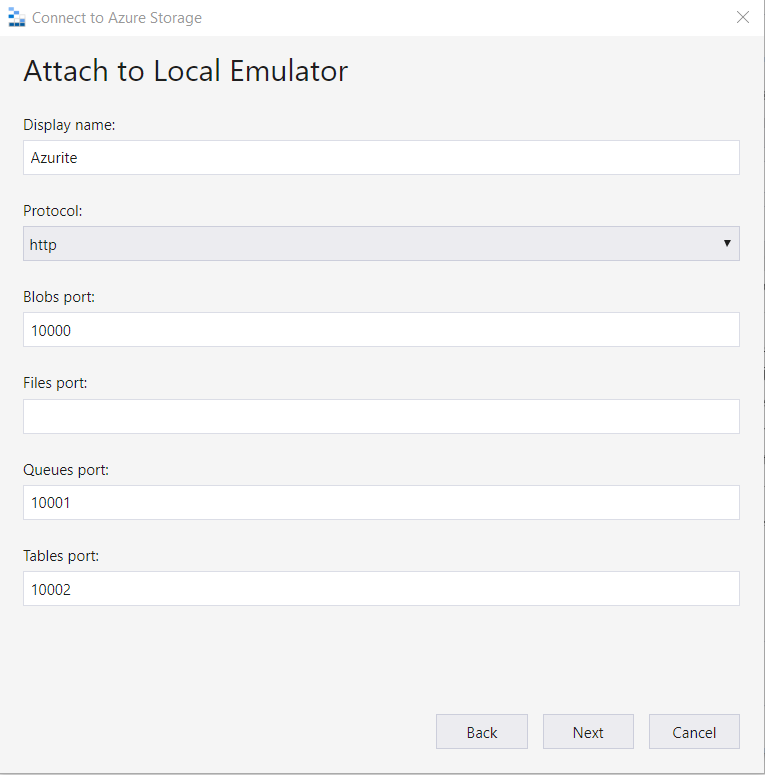
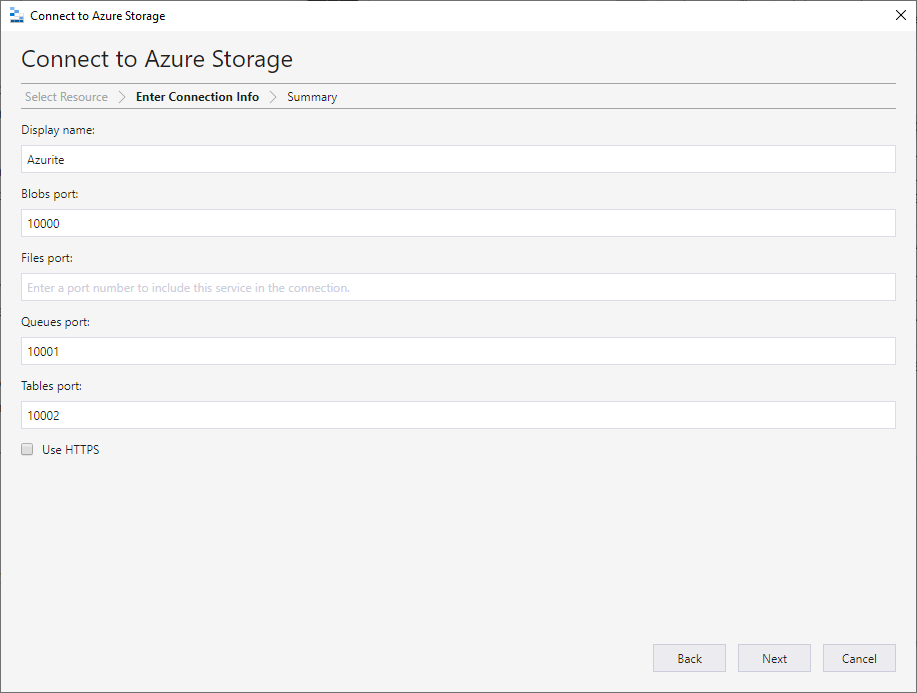
Documentation changes, replacing PNG files

diff --git a/README.md b/README.md
@@ -1,12 +1,12 @@
 ---
 page_type: sample
 languages:
-- python
-- yaml
+  - python
+  - yaml
 products:
-- azure
-- azure-devops
-- azure-blob-storage
+  - azure
+  - azure-devops
+  - azure-blob-storage
 name: Azure Blob Storage testing Pipeline with Azurite
 description: Using Azurite to run blob storage tests in Azure DevOps Pipeline with a sample application
 urlFragment: automated-testing-with-azure
@@ -16,11 +16,15 @@ urlFragment: automated-testing-with-azure
 
 ## Overview
 
-This repo determines the approach for writing automated tests with a short feedback loop (i.e. unit tests) against security considerations (private endpoints) for the Azure Blob Storage functionality.
+This repo demonstrates the approach for writing automated tests with a short feedback loop (i.e. unit tests) against security considerations (private endpoints) for Azure Blob Storage functionality.
 
-Once private endpoints are enabled for the Azure Storage accounts, the current tests will fail when executed locally or as part of a pipeline because this connection will be blocked.
+Once private endpoints are enabled for the Azure Storage accounts, tests will fail, when executed locally or as part of a pipeline, because this connection will be blocked.
 
-In this repo you can find a sample for Azure Blob Storage to upload images from url and upload files from a local folder. To run, `cp sample_env.txt .env` file to load environment variables for running code on local or pipeline and using `conftest.py` to load environment variables for tests.
+This repo contains a sample for Azure Blob Storage that will upload images from a url and upload files from a local folder. To run, `cp sample_env.txt .env` file to load environment variables for running code on local or pipeline and using `conftest.py` to load environment variables for tests.
+
+## Getting Started
+
+### Folder structure
 
 Here's the folder structure for the sample:
 
@@ -37,10 +41,23 @@ Here's the folder structure for the sample:
 - `requirements.txt` - Required pip packages to run python code on your local and pipeline
 - `requirements_dev.txt` - Required pip packages to run test code on your local and pipeline
 
-## Getting Started
-### Install and Launch Azurite on local
-There are several different ways to install and run Azurite on your local system as listed [here](https://docs.microsoft.com/en-us/azure/storage/common/storage-use-azurite#install-and-run-azurite-by-using-npm). In this document we will cover `Install and run Azurite using NPM` and `Install and run the Azurite Docker image`.
+### Prerequisites
+
+- [Azure Subscription](https://docs.microsoft.com/en-us/azure/cost-management-billing/manage/create-subscription#:~:text=Create%20Subscription%20Azure%201%20Sign%20in%20to%20the,for%20each%20type%20of%20billing%20account.%20See%20More.)
+- [Azure Resource Group](https://docs.microsoft.com/en-us/azure/azure-resource-manager/management/manage-resource-groups-portal#:~:text=Create%20resource%20groups%201%20Sign%20in%20to%20the,newly%20created%20resource%20group%20to%20open%20it.)
+- [Github Account](https://github.com/)
+- [Latest Stable Python Version](https://www.python.org/downloads/). When installing python, please add the specific version you will be using to the path. This will ensure a consistent experience when using the python commands in the tutorial.
+- [Node JS](https://nodejs.org/en/download/)
+- [Docker](https://docs.docker.com/desktop/): if installing Azurite using docker-compose.
+- [Azurite](https://docs.microsoft.com/en-us/azure/storage/common/storage-use-azurite#install-and-run-azurite-by-using-npm)
+- [Azure Devops Account](https://www.dev.azure.com/) with an available project to house the deployment pipeline.
+
+### Install and Launch Azurite in local environment
+
+There are several different ways to install and run Azurite on your local system as listed [here](https://docs.microsoft.com/en-us/azure/storage/common/storage-use-azurite#install-and-run-azurite-by-using-npm). In this document, we will cover `Install and run Azurite using NPM` and `Install and run the Azurite Docker image`.
+
 #### a. Using NPM
+
 In order to run Azurite V3 you need Node.js >= 8.0 installed on your system. Azurite works cross-platform on Windows, Linux, and OS X.
 
 After the Node.js installation, you can install Azurite simply with npm which is the Node.js package management tool included with every Node.js installation.
@@ -55,18 +72,20 @@ mkdir c:/azurite
 # Launch Azurite for Windows
 azurite --silent --location c:\azurite --debug c:\azurite\debug.log
 
-#Launch Azurite for MacOs:
+#Launch Azurite for MacOs or Linux:
 azurite -s -l /usr/local/lib/node_modules/azurite -d /usr/local/lib/node_modules/azurite/debug.log
 ```
 
 #### b. Using docker image
+
 Docker Compose will run the docker image using the `docker-compose.yml` file.
 
 ```bash
-docker-compose up 
+docker-compose up
 ```
 
-Either option (a) Using NPM  or (b) Using docker image, the output should be:
+Either option (a) Using NPM or (b) Using docker image, the output should be:
+
 ```shell
 Azurite Blob service is starting at http://127.0.0.1:10000
 Azurite Blob service is successfully listening at http://127.0.0.1:10000
@@ -78,34 +97,33 @@ Azurite Queue service is successfully listening at http://127.0.0.1:10001
 
 Python 3.8 is used for this, but it should also work fine on other 3.6+ versions.
 
-1. To test and see how these endpoints are running, you can attach your local blob storage to the [**Azure Storage Explorer**](https://azure.microsoft.com/en-us/features/storage-explorer/). In Azure Storage Explorer:  
+1. To test and see how these endpoints are running, you can attach your local blob storage to the [**Azure Storage Explorer**](https://azure.microsoft.com/en-us/features/storage-explorer/). In Azure Storage Explorer:
 
 - right click on `Storage Accounts` and select `Connect to Azure Storage`
-    ![connect storage](assets/storage_account.png)  
+  ![connect storage](assets/storage_account.png)
 
 - then select `Attach to a local emulator`  
-    ![connect blob](assets/blob_storage_connection.png)
+   ![connect blob](assets/blob_storage_connection.png)
 
 2. Provide a Display name and port number, then your connection will be ready and you can use Storage Explorer to manage your local blob storage.  
-    ![attach to local](assets/blob_storage_connection_attach.png)
+   ![attach to local](assets/blob_storage_connection_attach.png)
 
 Do not forget to start your emulator, Storage Explorer will not start it for you.
 
-3. Create a virtual python environment 
+3. Create a virtual python environment
 
    `python3 -m venv env`  
-   `source env/bin/activate` [on Linux] or `env/scripts/activate` [on Windows]  
+   `source env/bin/activate` [on Linux] or `env/scripts/activate` [on Windows]
 
 4. Install the dependencies  
-  `pip3 install -r requirements_dev.txt`
-    
+   `python3 -m pip install -r requirements_dev.txt`
 5. Run tests:
 
    ```bash
    python3 -m pytest ./tests
    ```
 
-After the tests run, you can see the files in your local blob storage
+After the tests run, you can see the files in your local blob storage.
 
 ![https local blob](assets/http_local_blob_storage.png)
 
@@ -114,16 +132,17 @@ After the tests run, you can see the files in your local blob storage
 After successfully running tests on local, run the `azure-pipelines` build yaml file using Azure DevOps Pipelines.
 
 **Note:** You will need
-* an existing [Azure subscription](https://azure.microsoft.com/en-us/free/)
-* an existing [Azure DevOps](https://azure.microsoft.com/en-us/services/devops/) organization and project.
+
+- an existing [Azure subscription](https://azure.microsoft.com/en-us/free/)
+- an existing [Azure DevOps](https://azure.microsoft.com/en-us/services/devops/) organization and project.
 
 1. Login to Azure DevOps
 
-2. Under the Organisation and Project, select the sample folder git Repo and Configure a Pipeline using the `build/azure-pipelines.yml` 
+2. Under the Organisation and Project, select the sample folder git Repo and Configure a Pipeline using the `build/azure-pipelines.yml`
 
-3. Run the Pipeline 
+3. Run the Pipeline
 
-After a successful set up and running the pipeline in Azure DevOps Pipelines, the result should be like below:
+After a successful set up and running the pipeline in Azure DevOps Pipelines, the result should look like:
 
 ![azure pipelines](assets/azure_pipeline.png)
 
@@ -131,6 +150,10 @@ After a successful set up and running the pipeline in Azure DevOps Pipelines, th
 
 See [LICENSE](LICENSE).
 
-## Contributing
+## Code of Conduct
 
 This project has adopted the [Microsoft Open Source Code of Conduct](https://opensource.microsoft.com/codeofconduct/). For more information see the [Code of Conduct FAQ](https://opensource.microsoft.com/codeofconduct/faq/) or contact [opencode@microsoft.com](mailto:opencode@microsoft.com) with any additional questions or comments.
+
+## Contributing
+
+See [CONTRIBUTING](CONTRIBUTING.MD)

diff --git a/CONTRIBUTING.MD b/CONTRIBUTING.MD
@@ -1,0 +1,82 @@
+# Contributing to Automated Testing With Azurite
+
+This project welcomes contributions and suggestions. Most contributions require you to agree to a
+Contributor License Agreement (CLA) declaring that you have the right to, and actually do, grant us
+the rights to use your contribution. For details, visit https://cla.microsoft.com.
+
+When you submit a pull request, a CLA-bot will automatically determine whether you need to provide
+a CLA and decorate the PR appropriately (e.g., label, comment). Simply follow the instructions
+provided by the bot. You will only need to do this once across all repos using our CLA.
+
+This project has adopted the [Microsoft Open Source Code of Conduct](https://opensource.microsoft.com/codeofconduct/).
+For more information see the [Code of Conduct FAQ](https://opensource.microsoft.com/codeofconduct/faq/) or
+contact [opencode@microsoft.com](mailto:opencode@microsoft.com) with any additional questions or comments.
+
+- [Code of Conduct](#coc)
+- [Issues and Bugs](#issue)
+- [Feature Requests](#feature)
+- [Submission Guidelines](#submit)
+
+## <a name="coc"></a> Code of Conduct
+
+Help us keep this project open and inclusive. Please read and follow our [Code of Conduct](https://opensource.microsoft.com/codeofconduct/).
+
+## <a name="issue"></a> Found an Issue?
+
+If you find a bug in the source code or a mistake in the documentation, you can help us by
+[submitting an issue](#submit-issue) to the GitHub Repository. Even better, you can
+[submit a Pull Request](#submit-pr) with a fix.
+
+## <a name="feature"></a> Want a Feature?
+
+You can _request_ a new feature by [submitting an issue](#submit-issue) to the GitHub
+Repository. If you would like to _implement_ a new feature, please submit an issue with
+a proposal for your work first, to be sure that we can use it.
+
+- **Small Features** can be crafted and directly [submitted as a Pull Request](#submit-pr).
+
+## <a name="submit"></a> Submission Guidelines
+
+### <a name="submit-issue"></a> Submitting an Issue
+
+Before you submit an issue, search the archive, maybe your question was already answered.
+
+If your issue appears to be a bug, and hasn't been reported, open a new issue.
+Help us to maximize the effort we can spend fixing issues and adding new
+features, by not reporting duplicate issues. Providing the following information will increase the
+chances of your issue being dealt with quickly:
+
+- **Overview of the Issue** - if an error is being thrown a non-minified stack trace helps
+- **Version** - what version is affected (e.g. 0.1.2)
+- **Motivation for or Use Case** - explain what are you trying to do and why the current behavior is a bug for you
+- **Browsers and Operating System** - is this a problem with all browsers?
+- **Reproduce the Error** - provide a live example or a unambiguous set of steps
+- **Related Issues** - has a similar issue been reported before?
+- **Suggest a Fix** - if you can't fix the bug yourself, perhaps you can point to what might be
+  causing the problem (line of code or commit)
+
+You can file new issues by providing the above information at the corresponding repository's issues link: https://github.com/[organization-name]/[repository-name]/issues/new].
+
+### <a name="submit-pr"></a> Submitting a Pull Request (PR)
+
+Before you submit your Pull Request (PR) consider the following guidelines:
+
+- Search the repository (https://github.com/[organization-name]/[repository-name]/pulls) for an open or closed PR
+  that relates to your submission. You don't want to duplicate effort.
+
+- Make your changes in a new git fork:
+
+- Commit your changes using a descriptive commit message
+- Push your fork to GitHub:
+- In GitHub, create a pull request
+- If we suggest changes then:
+
+  - Make the required updates.
+  - Rebase your fork and force push to your GitHub repository (this will update your Pull Request):
+
+    ```shell
+    git rebase master -i
+    git push -f
+    ```
+
+That's it! Thank you for your contribution!
